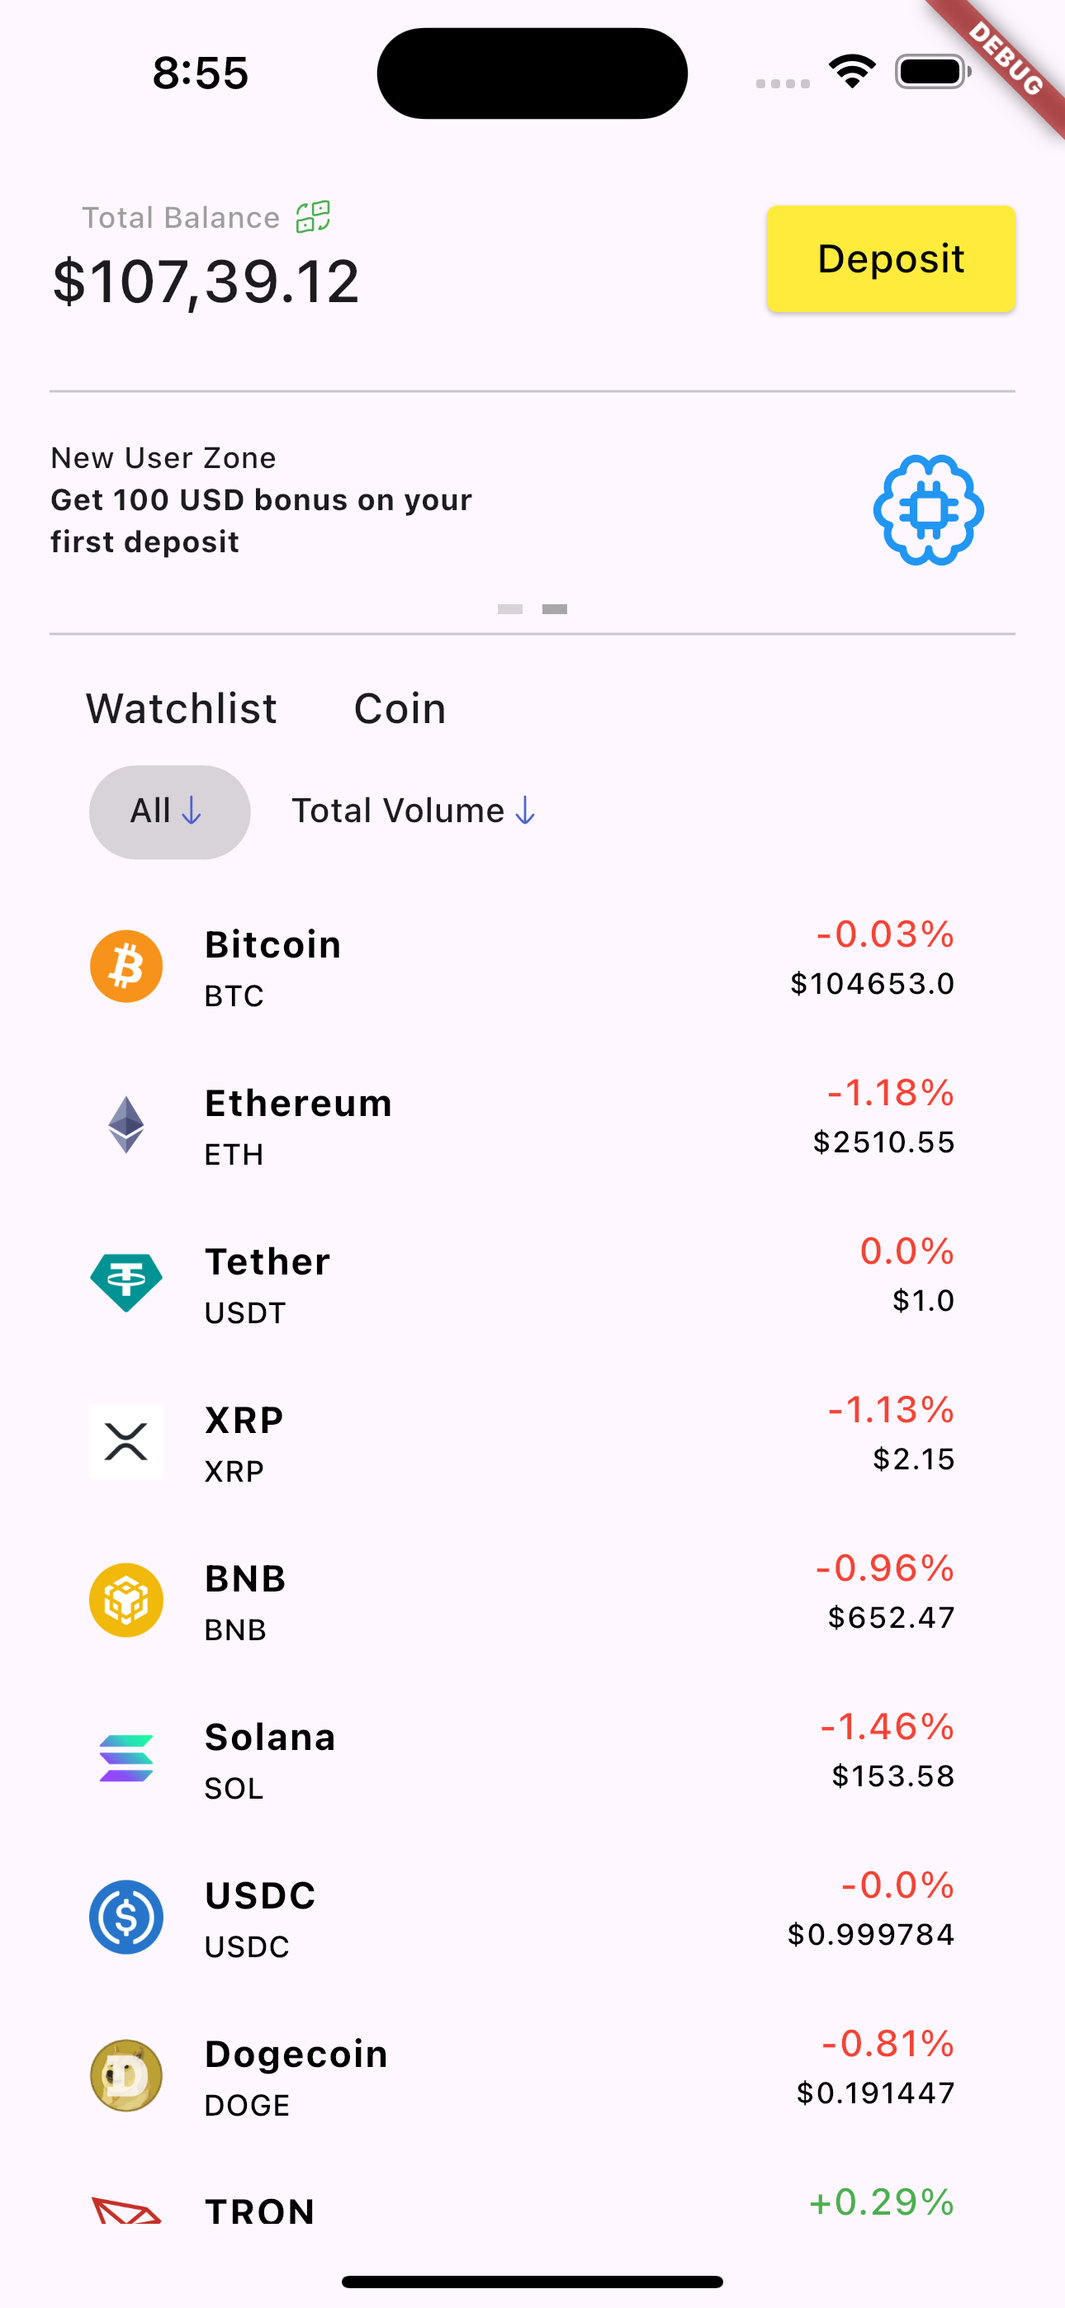
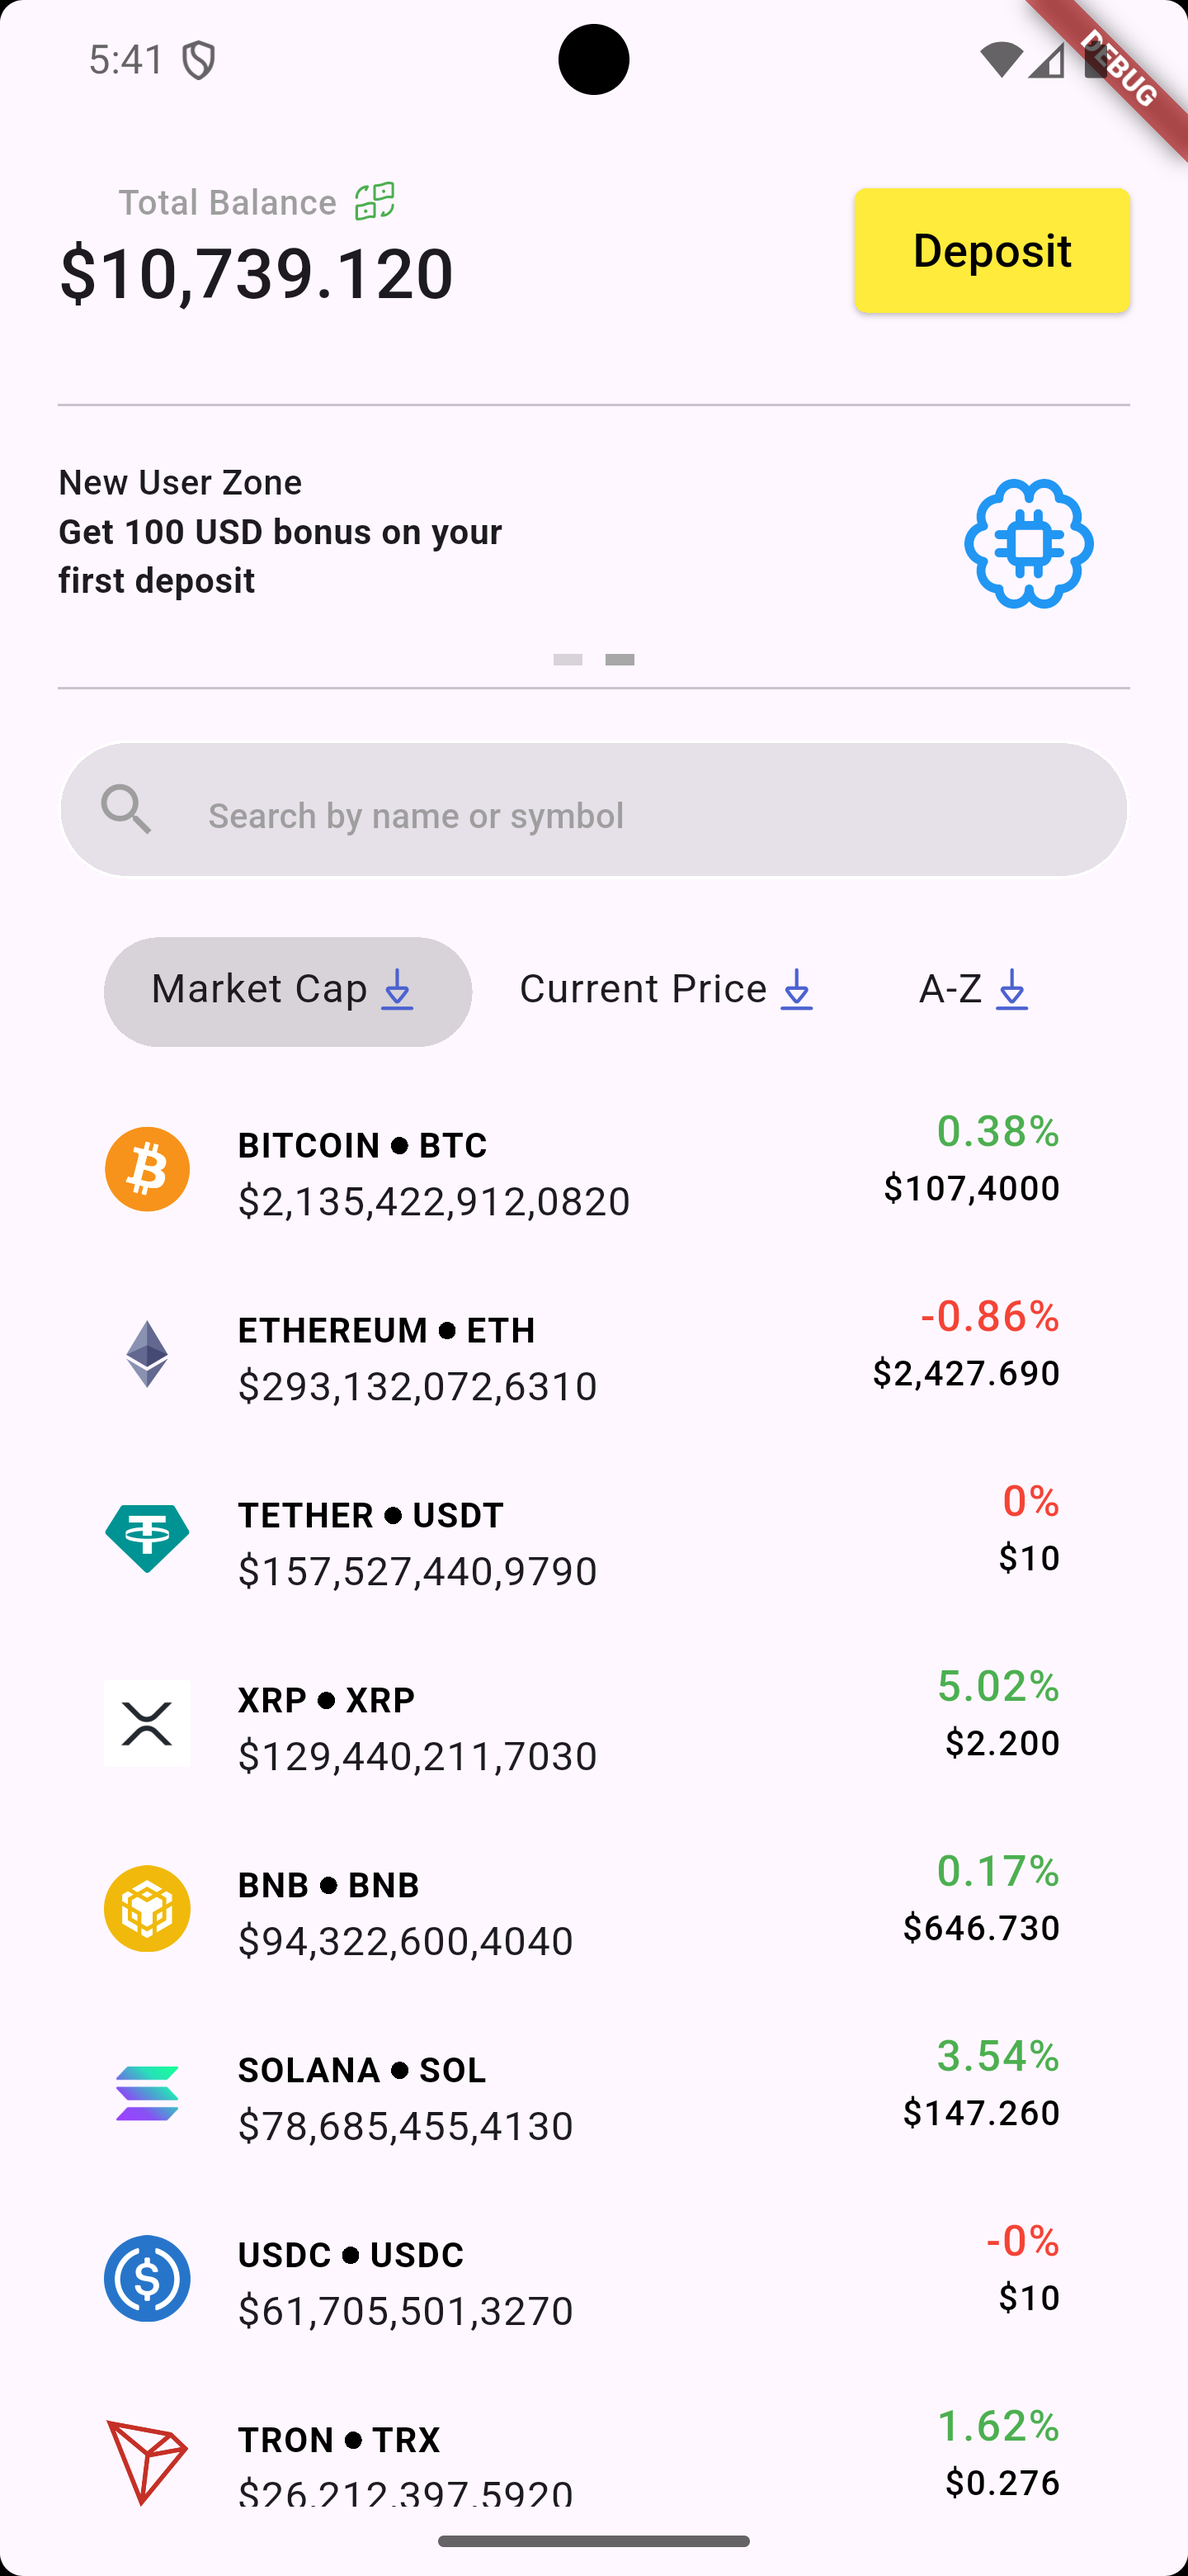
updated readme.md

diff --git a/README.md b/README.md
@@ -38,8 +38,10 @@ flutter run \
   - **Current Price (USD)**
   - **Market Cap**
   - **24h Price Change (%)**
-- 🔁 **Sorting functionality**: Toggle between ascending and descending market cap.
+- 🔁 **Sorting/Searching functionality**: Toggle between ascending and descending market cap.
 - 💰 **Static total balance** and a **banner section** to enhance layout spacing.
+- 💰 **Localization** as per Language to format the numbers and Currency for mobile
+- 💰 **Real Time price Change** for mobile every 5 seconds
 - ➡ Clicking a coin navigates to its **Coin Detail Page**.
 
 ---
@@ -68,7 +70,7 @@ flutter run \
 <table style="width: 100%; text-align: center; border-collapse: collapse;">
   <tr>
     <td>Mobile Dashboard Market Cap Descending</td>
-    <td>Mobile Dashboard Market Cap Ascending</td>
+    <td>Mobile Dashboard Searching</td>
     <td>Mobile Coin Details Page</td>
   </tr>
   <tr>
